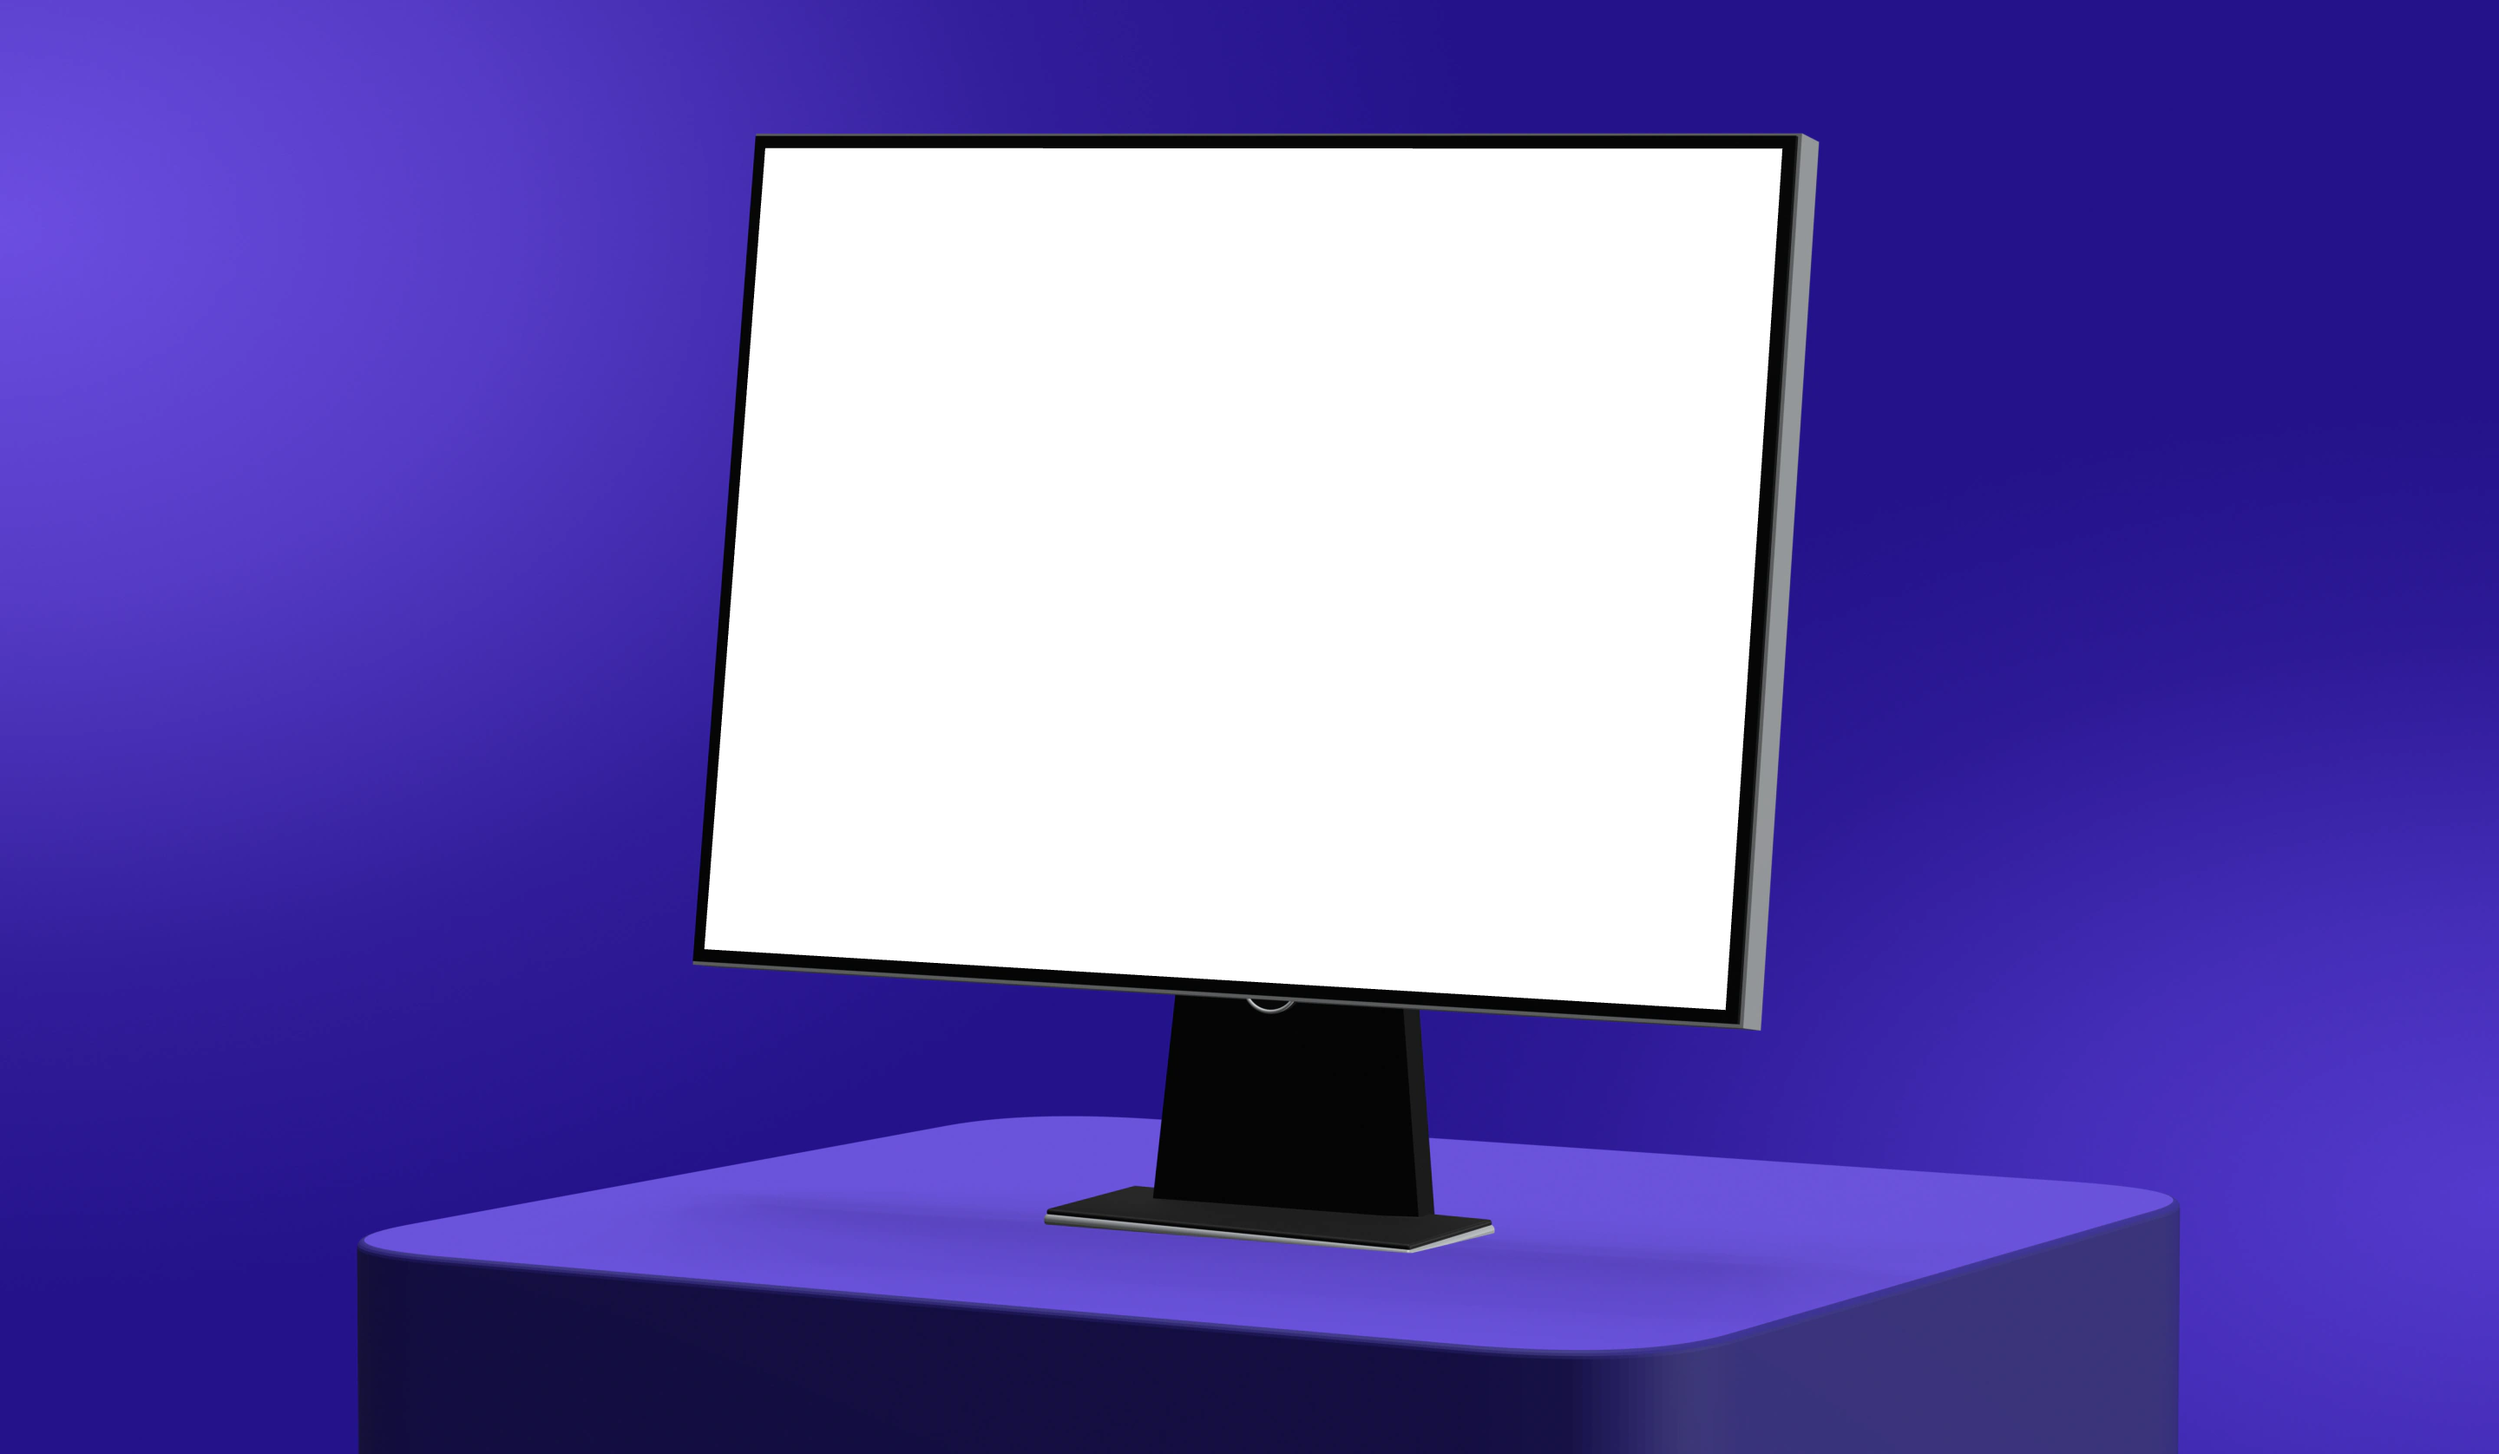
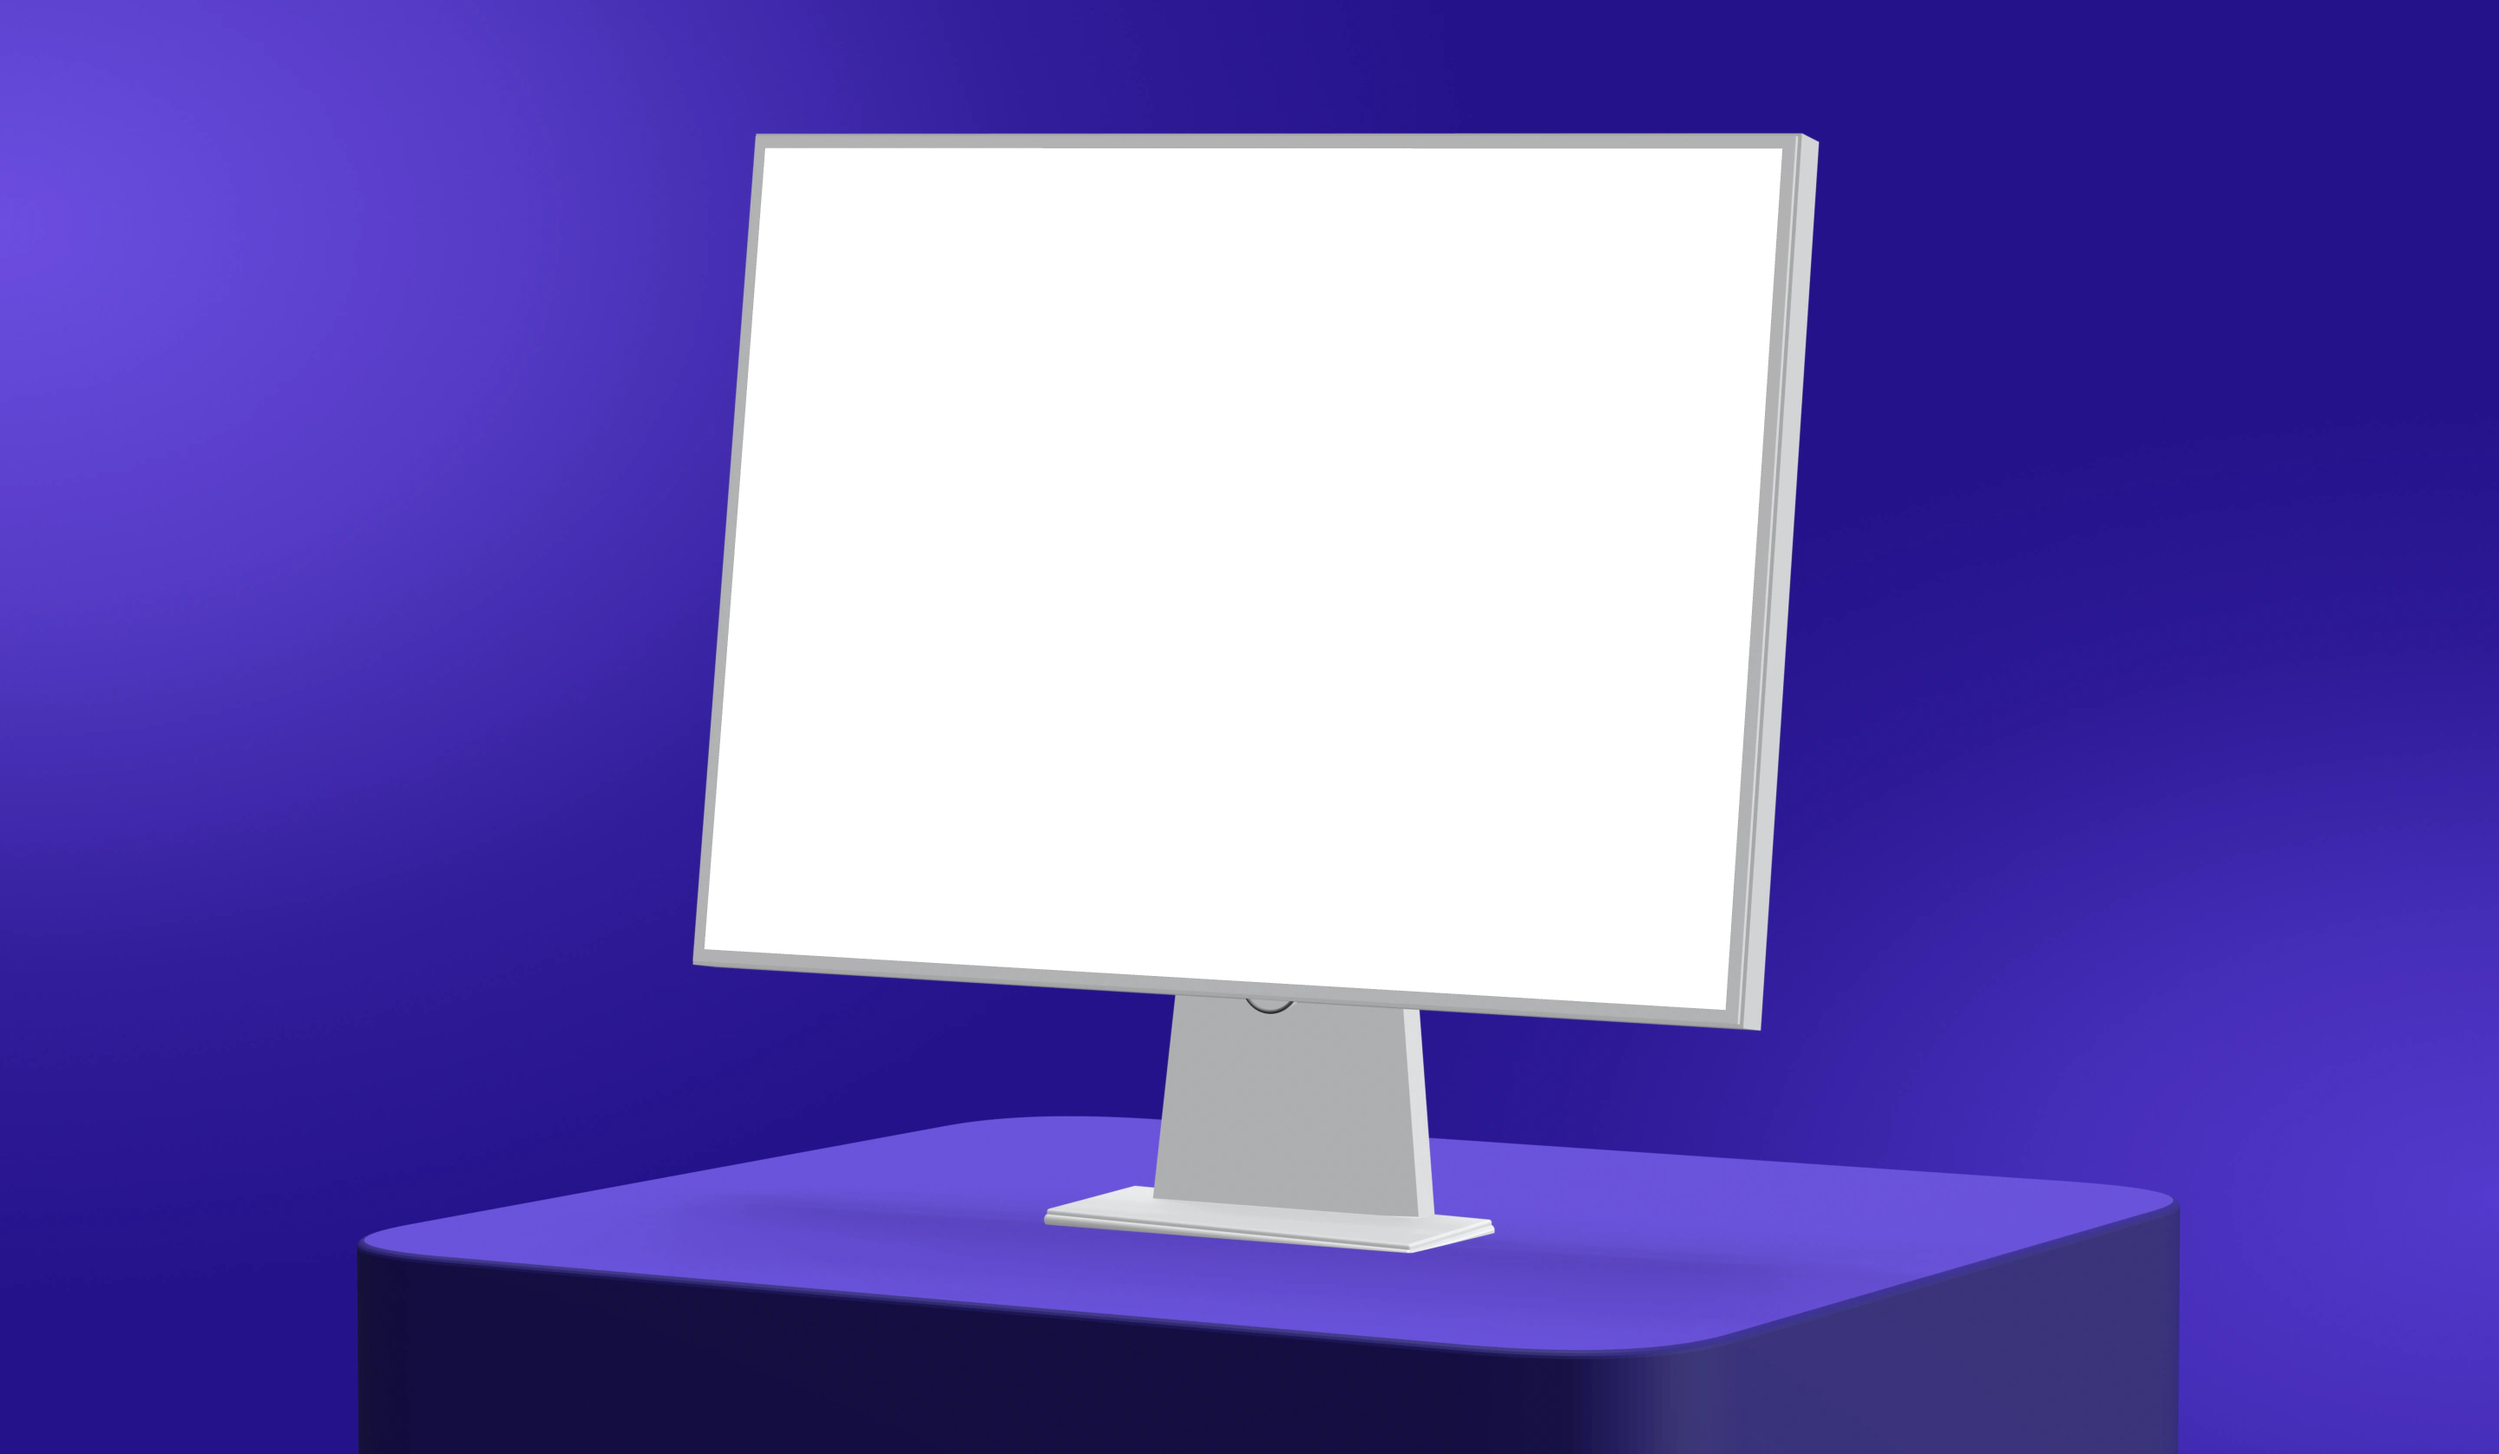
Devsign cover: silver monitor

Changed region(s): [[0.2812, 0.0931, 0.75, 0.8687]]

diff --git a/scripts/cover-3d/scene.html b/scripts/cover-3d/scene.html
@@ -19,11 +19,11 @@ const g=new THREE.ExtrudeGeometry(sh2,{depth:pl[1],bevelEnabled:true,bevelThickn
 const o=new THREE.Mesh(g,[M(P.plc,.55),M(P.pls,.7)]);o.position.set(P.px||0,P.py,P.pz||0);o.rotation.y=P.pyaw;o.rotation.x=P.ptilt;o.castShadow=o.receiveShadow=true;s.add(o);}
 const mon=new THREE.Group();mon.position.set(...P.mon);mon.rotation.x=P.tilt;rig.add(mon);
 const sw=1.92,sh=1.43,bz=.022,th=.085,bw=sw+bz*2,bh=sh+bz*2;
-const black=M('#050506',.35),silver=M('#c8ccd0',.38,.35);
+const black=M(P.body||'#050506',.42,P.body?.25:0),silver=M(P.edge||'#c8ccd0',.38,.35);if(P.body){black.emissive=new THREE.Color('#ffffff');black.emissiveIntensity=P.glow;silver.emissive=new THREE.Color('#ffffff');silver.emissiveIntensity=P.glow*.8;}
 add(new THREE.BoxGeometry(bw+.012,bh+.012,th),silver,[0,0,-th/2-.006],mon);
 add(new THREE.BoxGeometry(bw,bh,.012),black,[0,0,.0],mon);
-add(new THREE.CylinderGeometry(.052,.052,.02,48),M('#08080a',.4),[P.nx,-sh*.5+.004,-.05],mon).rotation.x=Math.PI/2;
-add(new THREE.TorusGeometry(.052,.0035,10,48,Math.PI),M('#dfe2e5',.3,.2),[P.nx,-sh*.5+.004,-.037],mon).rotation.z=Math.PI;
+add(new THREE.CylinderGeometry(.052,.052,.02,48),(P.body?black:M('#08080a',.4)),[P.nx,-sh*.5+.004,-.05],mon).rotation.x=Math.PI/2;
+add(new THREE.TorusGeometry(.052,.0035,10,48,Math.PI),M(P.body?'#9a9ca0':'#dfe2e5',.3,.2),[P.nx,-sh*.5+.004,-.037],mon).rotation.z=Math.PI;
 const footY=.011,fy=P.pyaw-P.yaw;
 add(new RB(P.fs[0],.022,P.fs[1],6,.01),silver,[P.foot[0],P.py+footY+.012,P.foot[1]]).rotation.y=fy;
 add(new RB(P.fs[0]-.01,.012,P.fs[1]-.01,6,.005),black,[P.foot[0],P.py+.036,P.foot[1]]).rotation.y=fy;
